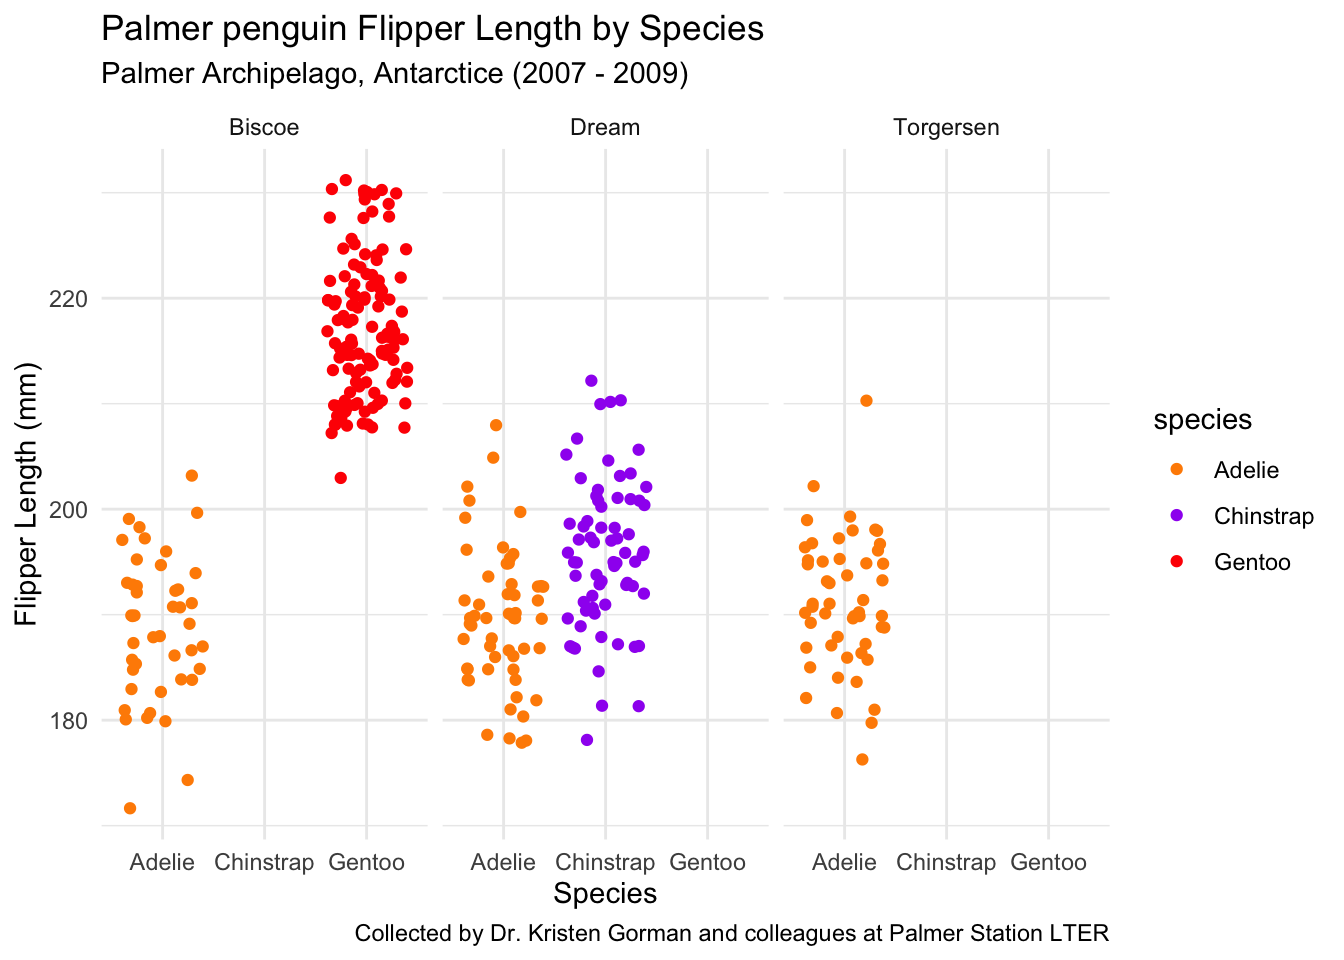
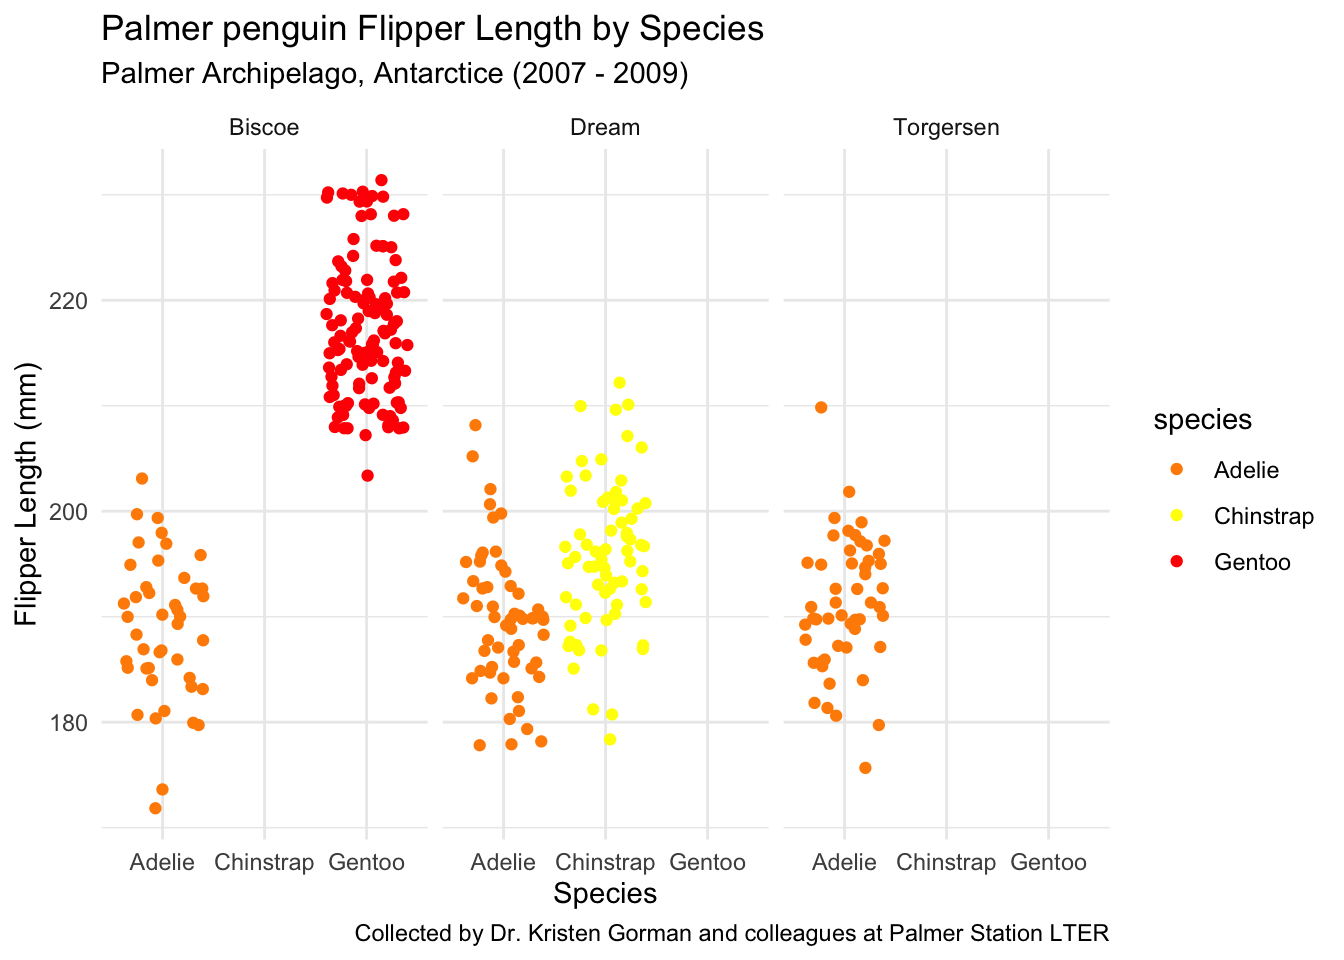
yellow penguins

diff --git a/eds212_day2_activities.html b/eds212_day2_activities.html
@@ -159,7 +159,7 @@ pre > code.sourceCode > span > a:first-child::before { text-decoration: underlin
 <div class="cell">
 <div class="sourceCode cell-code" id="cb12"><pre class="sourceCode r code-with-copy"><code class="sourceCode r"><span id="cb12-1"><a href="#cb12-1" aria-hidden="true" tabindex="-1"></a><span class="fu">ggplot</span>(<span class="at">data =</span> penguins, <span class="fu">aes</span>(<span class="at">x =</span> bill_depth_mm, <span class="at">y =</span> bill_length_mm)) <span class="sc">+</span></span>
 <span id="cb12-2"><a href="#cb12-2" aria-hidden="true" tabindex="-1"></a>  <span class="fu">geom_point</span>(<span class="fu">aes</span>(<span class="at">color =</span> species)) <span class="sc">+</span></span>
-<span id="cb12-3"><a href="#cb12-3" aria-hidden="true" tabindex="-1"></a>  <span class="fu">scale_color_manual</span>(<span class="at">values =</span> <span class="fu">c</span>(<span class="st">"darkorange"</span>,<span class="st">"purple"</span>,<span class="st">"red"</span>)) <span class="sc">+</span></span>
+<span id="cb12-3"><a href="#cb12-3" aria-hidden="true" tabindex="-1"></a>  <span class="fu">scale_color_manual</span>(<span class="at">values =</span> <span class="fu">c</span>(<span class="st">"darkorange"</span>,<span class="st">"yellow"</span>,<span class="st">"red"</span>)) <span class="sc">+</span></span>
 <span id="cb12-4"><a href="#cb12-4" aria-hidden="true" tabindex="-1"></a>  <span class="fu">labs</span>(<span class="at">y =</span> <span class="st">"Bill Length (mm)"</span>,</span>
 <span id="cb12-5"><a href="#cb12-5" aria-hidden="true" tabindex="-1"></a>       <span class="at">x =</span> <span class="st">"Bill Depth (mm)"</span>,</span>
 <span id="cb12-6"><a href="#cb12-6" aria-hidden="true" tabindex="-1"></a>       <span class="at">title =</span> <span class="st">"Palmer penguin bill measurements"</span>,</span>
@@ -182,7 +182,7 @@ pre > code.sourceCode > span > a:first-child::before { text-decoration: underlin
 <div class="cell">
 <div class="sourceCode cell-code" id="cb14"><pre class="sourceCode r code-with-copy"><code class="sourceCode r"><span id="cb14-1"><a href="#cb14-1" aria-hidden="true" tabindex="-1"></a><span class="fu">ggplot</span>(<span class="at">data =</span> penguins, <span class="fu">aes</span>(<span class="at">x =</span> species, <span class="at">y =</span> flipper_length_mm)) <span class="sc">+</span></span>
 <span id="cb14-2"><a href="#cb14-2" aria-hidden="true" tabindex="-1"></a>  <span class="fu">geom_jitter</span>(<span class="fu">aes</span>(<span class="at">color =</span> species)) <span class="sc">+</span></span>
-<span id="cb14-3"><a href="#cb14-3" aria-hidden="true" tabindex="-1"></a>  <span class="fu">scale_color_manual</span>(<span class="at">values =</span> <span class="fu">c</span>(<span class="st">"darkorange"</span>,<span class="st">"purple"</span>,<span class="st">"red"</span>)) <span class="sc">+</span></span>
+<span id="cb14-3"><a href="#cb14-3" aria-hidden="true" tabindex="-1"></a>  <span class="fu">scale_color_manual</span>(<span class="at">values =</span> <span class="fu">c</span>(<span class="st">"darkorange"</span>,<span class="st">"yellow"</span>,<span class="st">"red"</span>)) <span class="sc">+</span></span>
 <span id="cb14-4"><a href="#cb14-4" aria-hidden="true" tabindex="-1"></a>  <span class="fu">labs</span>(<span class="at">x =</span> <span class="st">"Species"</span>,</span>
 <span id="cb14-5"><a href="#cb14-5" aria-hidden="true" tabindex="-1"></a>       <span class="at">y =</span> <span class="st">"Flipper Length (mm)"</span>,</span>
 <span id="cb14-6"><a href="#cb14-6" aria-hidden="true" tabindex="-1"></a>       <span class="at">title =</span> <span class="st">"Palmer penguin Flipper Length by Species"</span>,</span>
